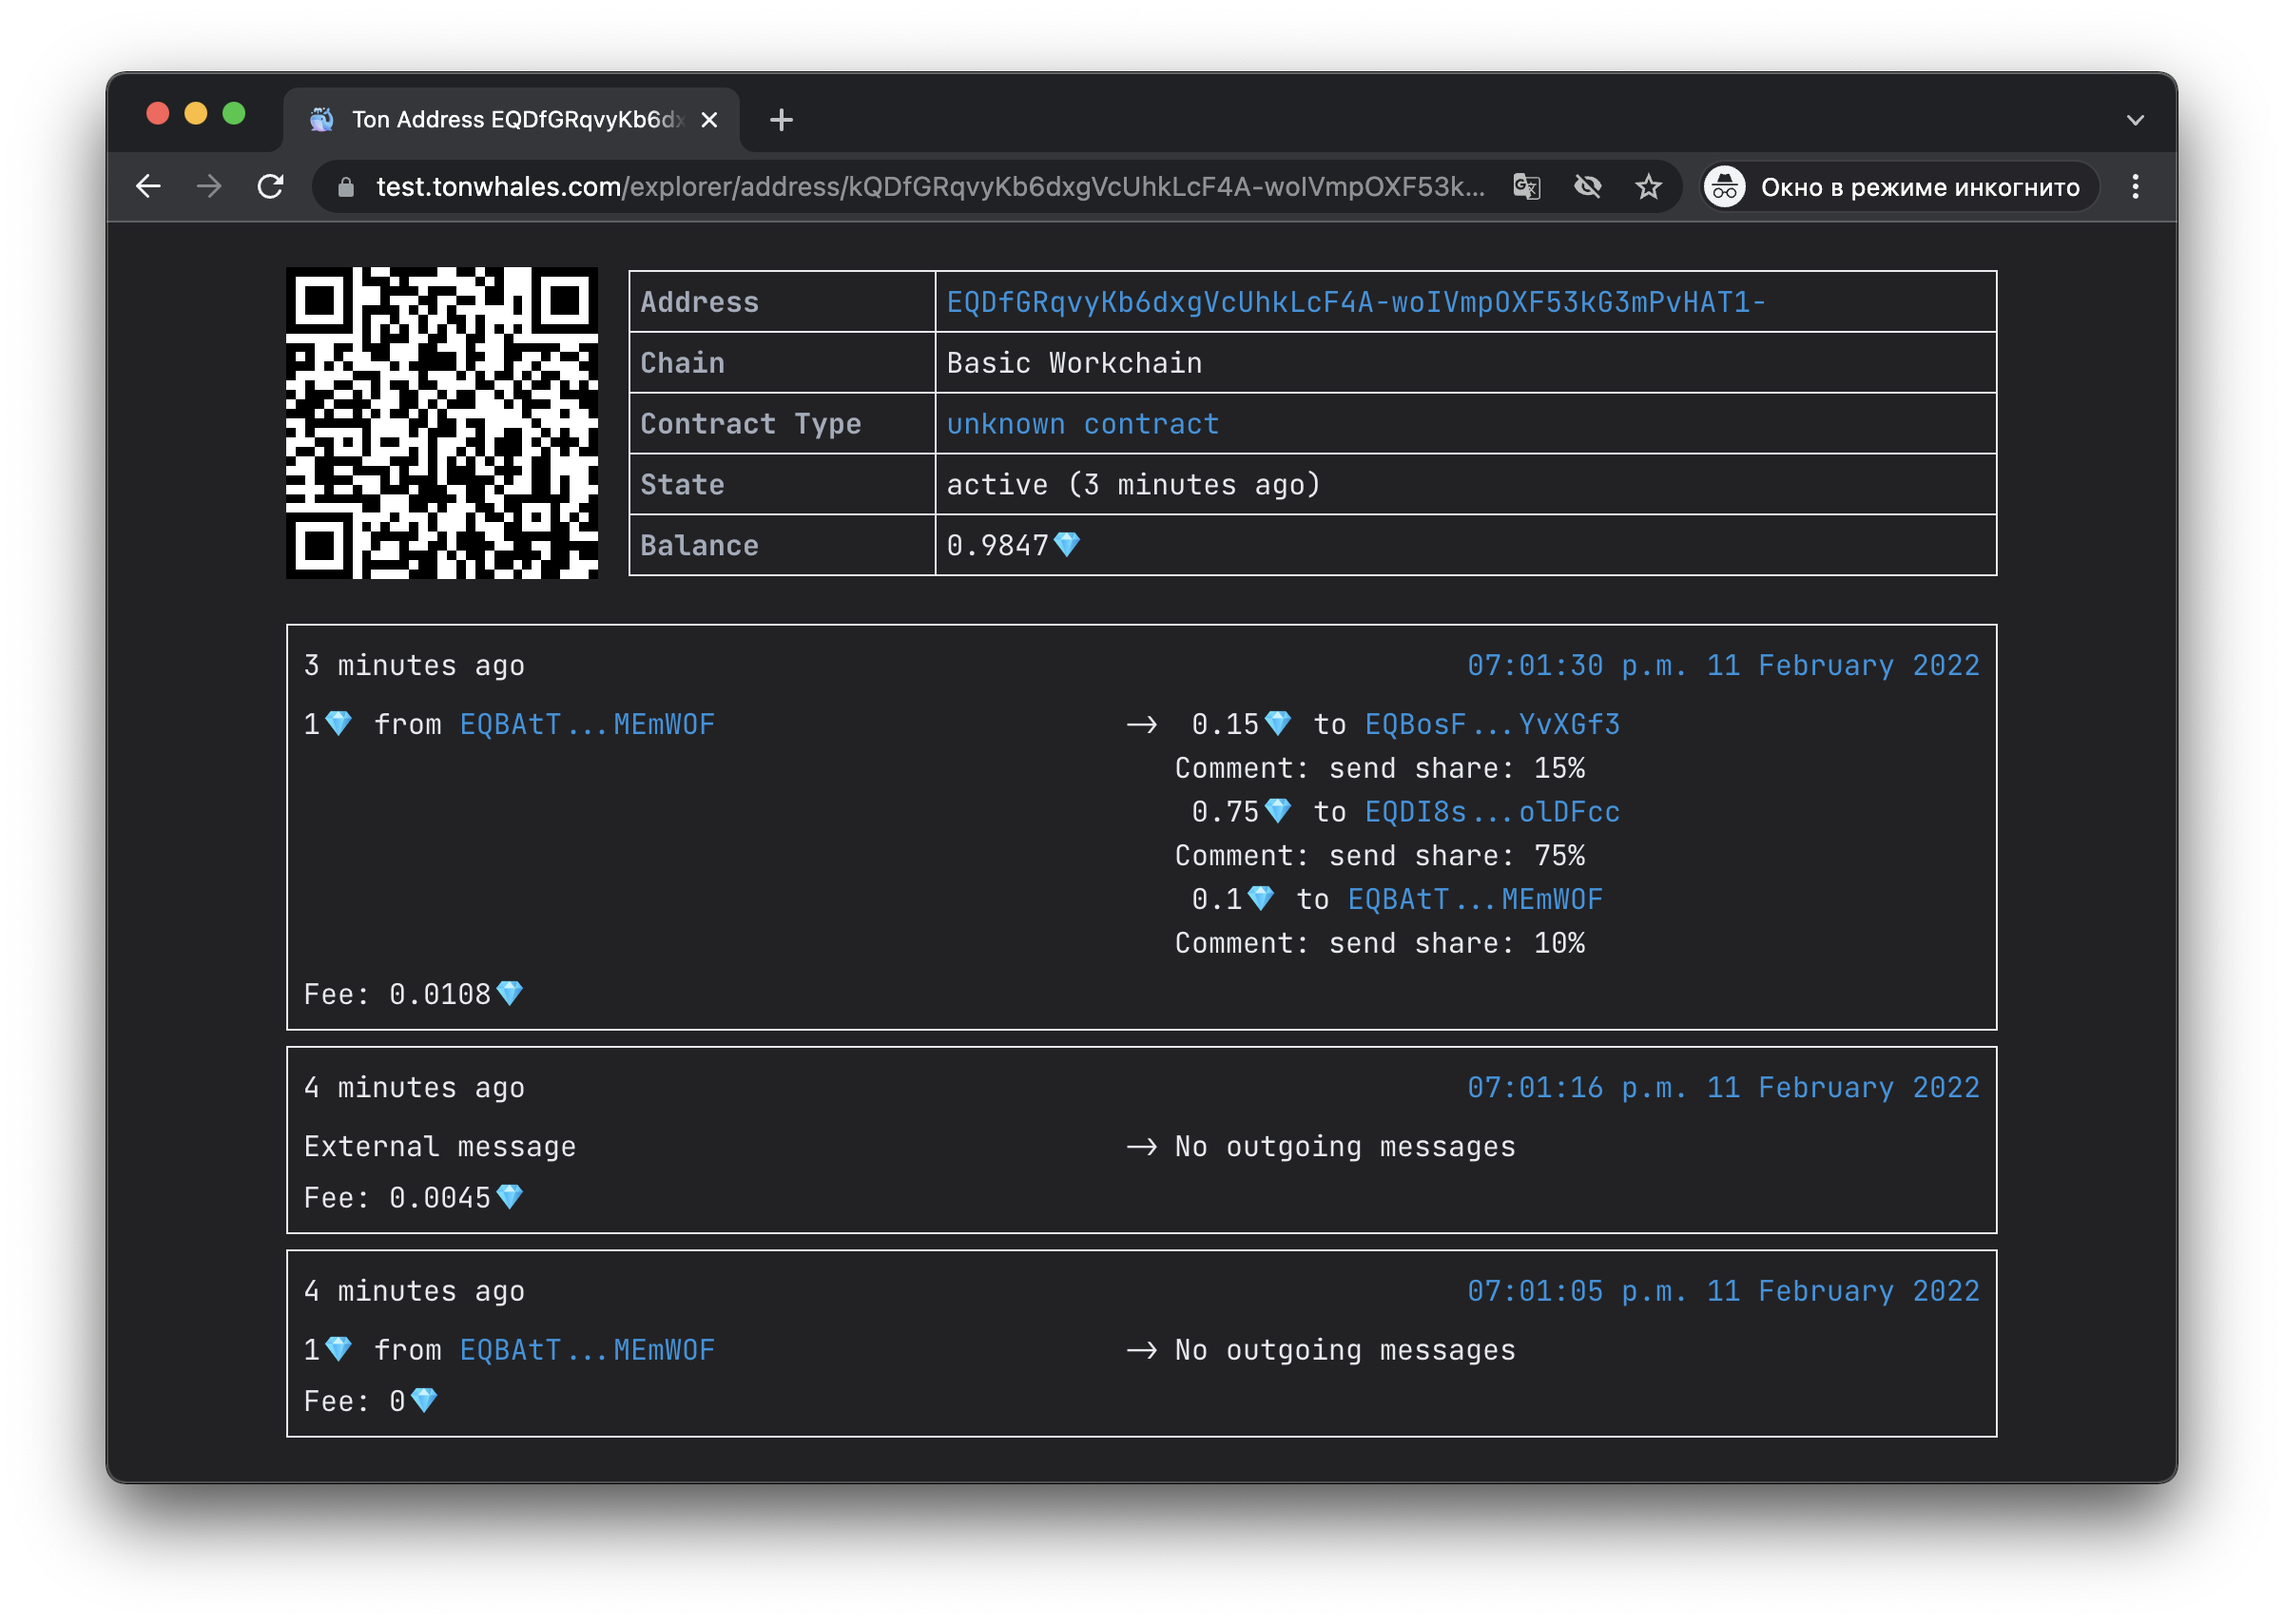
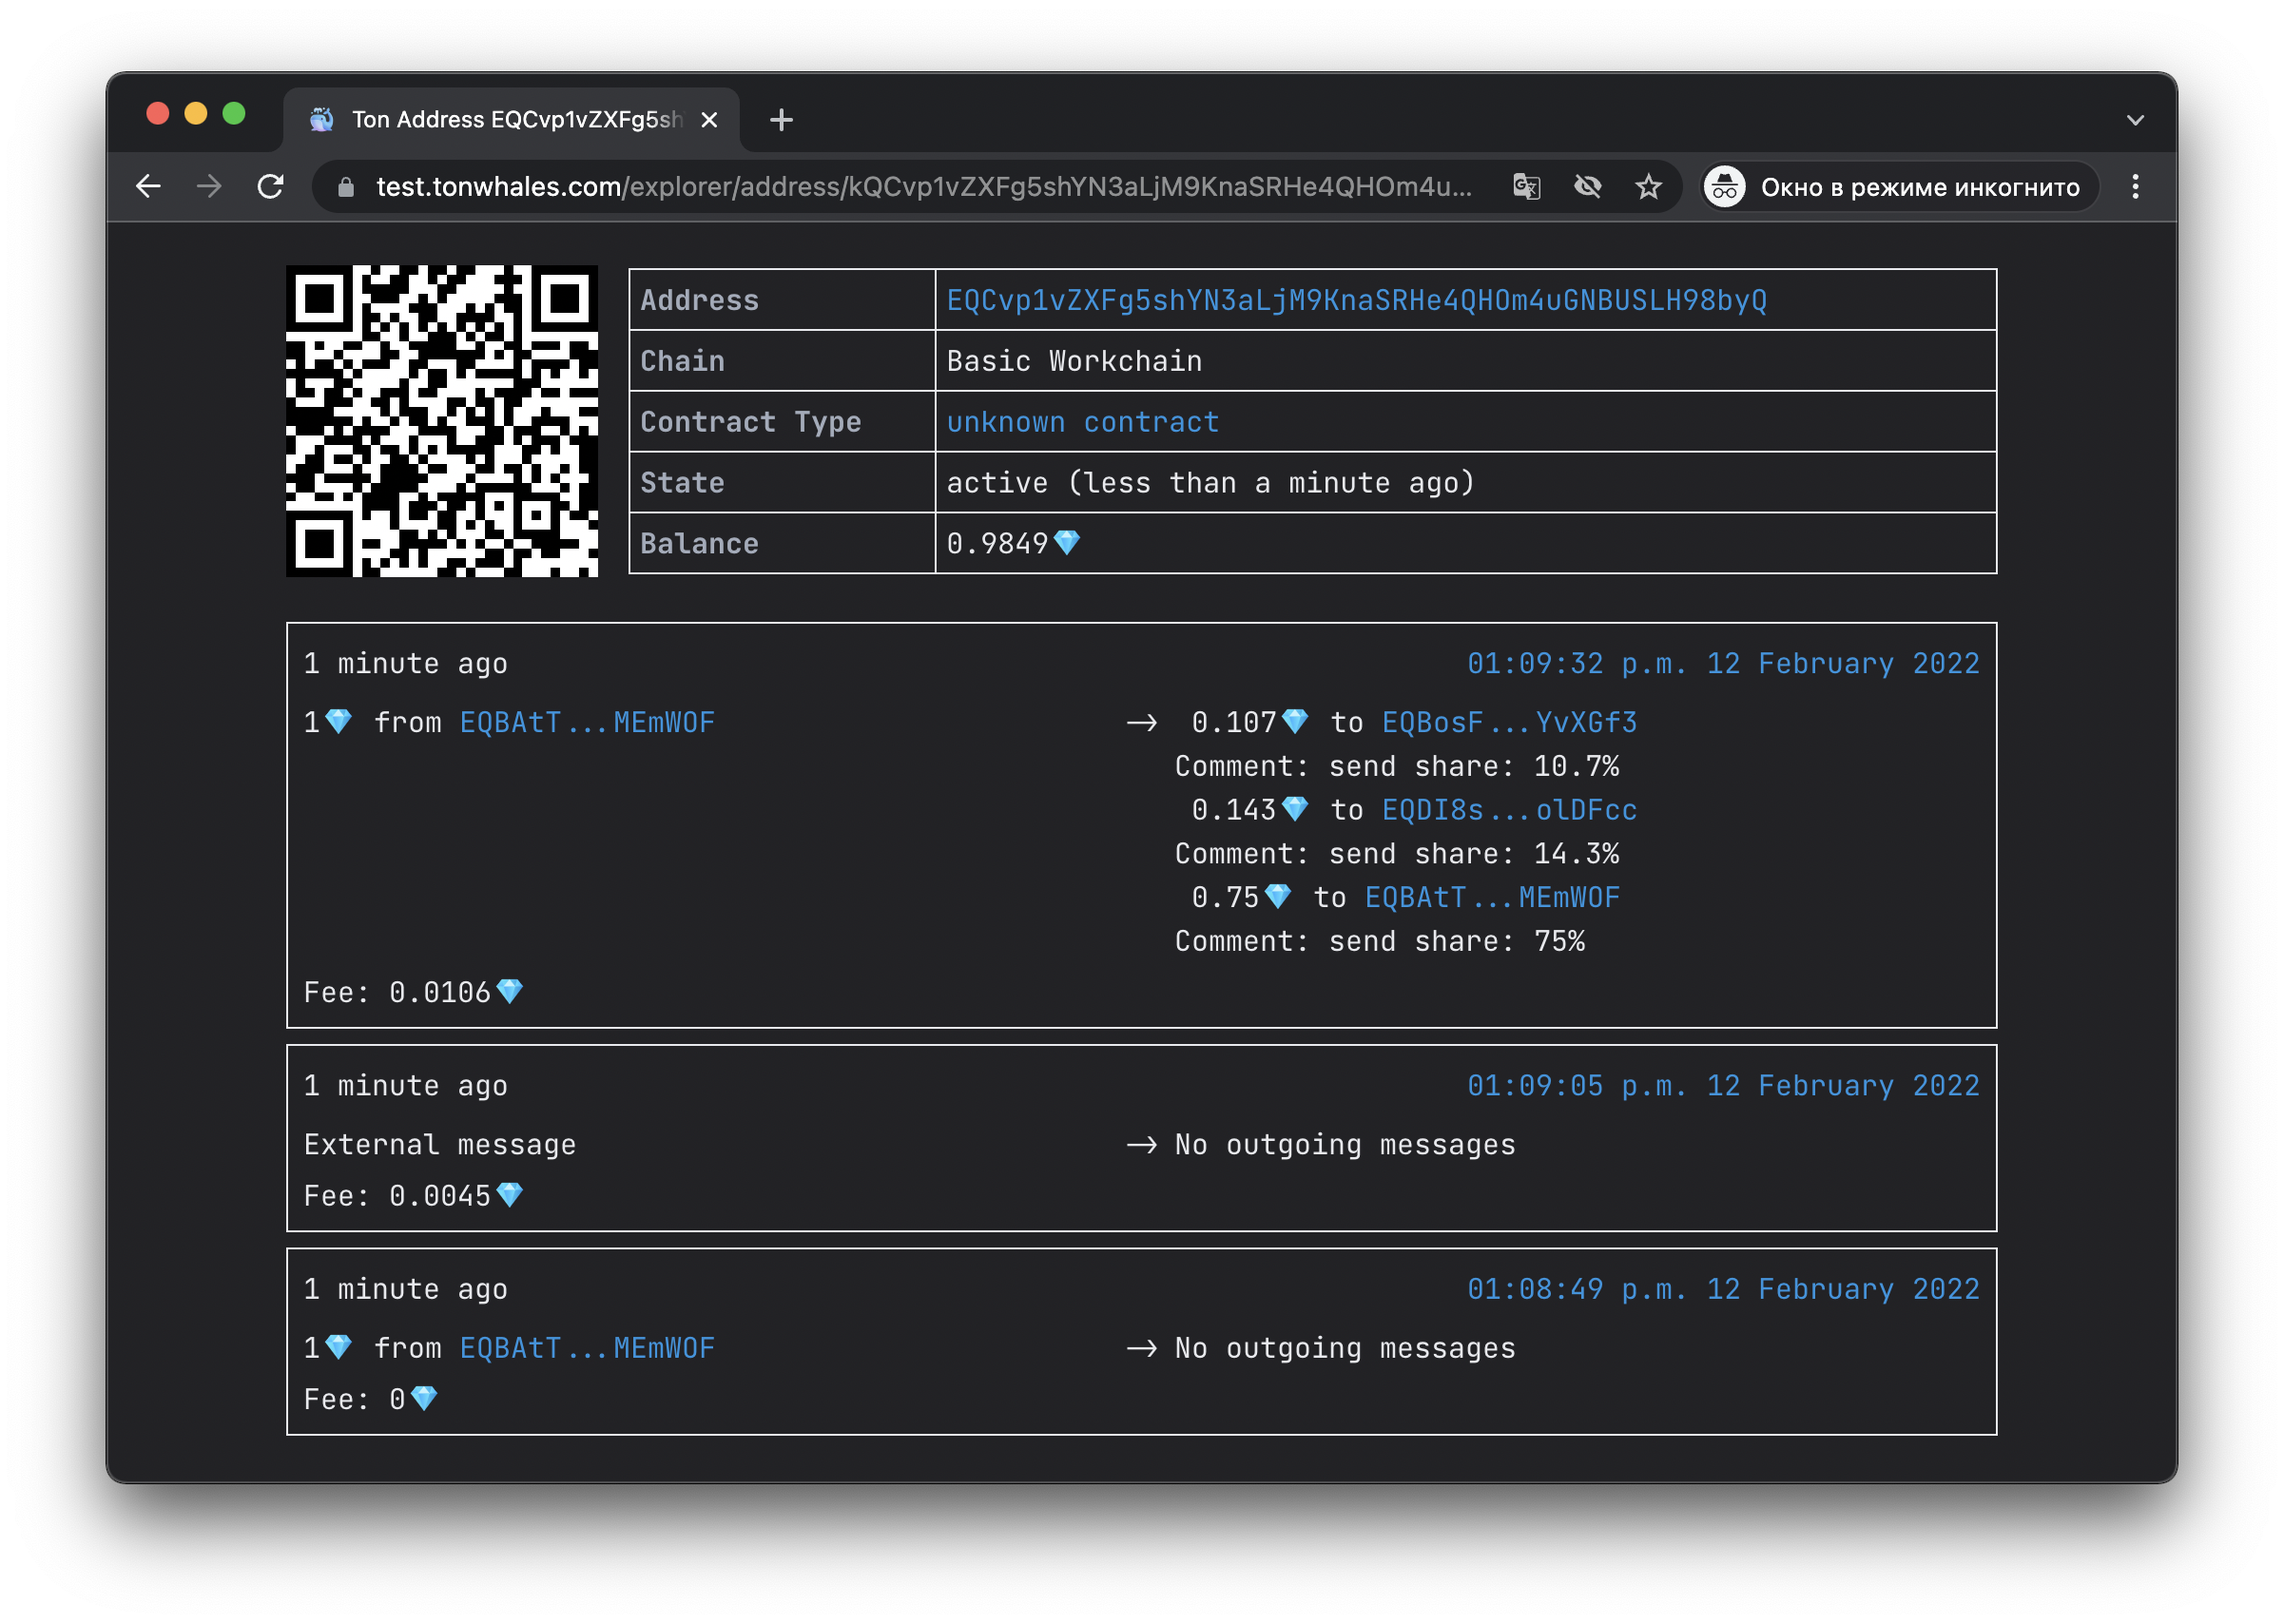
fractional percent support

diff --git a/README.md b/README.md
@@ -25,9 +25,9 @@ The share is an integer number. The total share of all holders must be 100.
 Example file(`holders.txt`):
 
 ```txt
-+HOLDER EQBAtTjqPOsBvWPO_ij7xkLA11cjiXUKA3gRHVSbrYMEmWOF 10
-+HOLDER EQDI8skSrGW5EJX6UaU9WP8WY_VaM8cg7gDYFNWsn6olDFcc 75
-+HOLDER EQBosFYEWK-JOuNOdsN-iUoTaKwS4G0hoNTUrhfndZYvXGf3 15
++HOLDER EQBAtTjqPOsBvWPO_ij7xkLA11cjiXUKA3gRHVSbrYMEmWOF 75
++HOLDER EQDI8skSrGW5EJX6UaU9WP8WY_VaM8cg7gDYFNWsn6olDFcc 14.3
++HOLDER EQBosFYEWK-JOuNOdsN-iUoTaKwS4G0hoNTUrhfndZYvXGf3 10.7
 ```
 
 #### Create initialization external message
